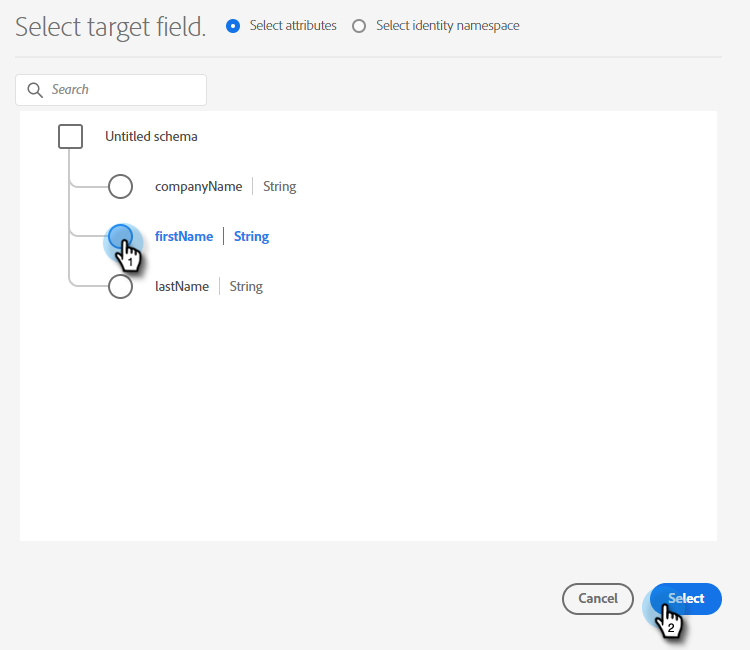
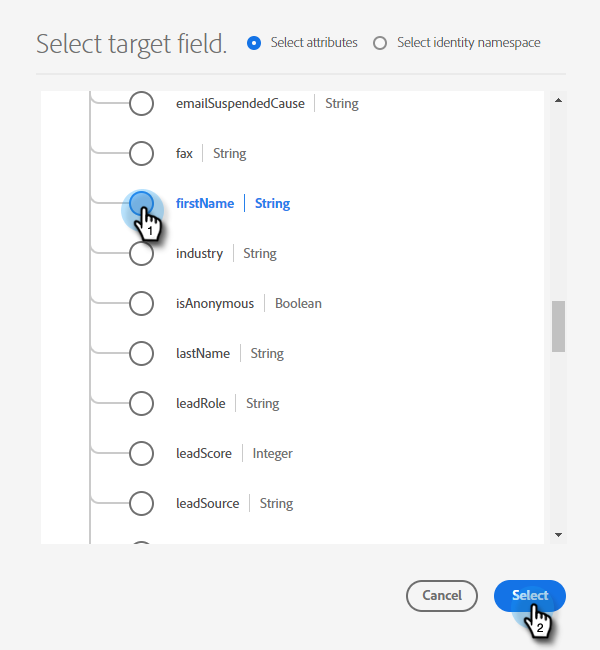
push exp plat

diff --git a/help/marketo/product-docs/core-marketo-concepts/smart-lists-and-static-lists/static-lists/push-an-adobe-experience-platform-segment-to-a-marketo-static-list.md b/help/marketo/product-docs/core-marketo-concepts/smart-lists-and-static-lists/static-lists/push-an-adobe-experience-platform-segment-to-a-marketo-static-list.md
@@ -51,7 +51,7 @@ This feature allows you to push segments located in your Adobe Experience Platfo
 
    ![](assets/push-an-adobe-experience-platform-segment-8.png)
 
-1. Enter a Destination **Name** and an optional Description. Click the Person Creation drop-down and choose "Match Existing Marketo People and Create Missing People in Marketo" _or_ "Match Existing Marketo People Only." In this example we're choosing the former.
+1. Enter a Destination **Name** and an optional Description. Click the Person Creation drop-down and choose "Match Existing Marketo People and Create Missing People in Marketo" _or_ "Match Existing Marketo People Only." In this example we're choosing the former. You can also optionally choose a workspace, or just go with the default.
 
    ![](assets/push-an-adobe-experience-platform-segment-9.png)
 
@@ -87,9 +87,13 @@ This feature allows you to push segments located in your Adobe Experience Platfo
 
    ![](assets/push-an-adobe-experience-platform-segment-14.png)
 
-1. Map First Name by selecting **firstName** and clicking **Select**.
+1. Choose your desired attribute(s) and click **Select**. In this example, we're choosing first name, last name, and email address.
 
    ![](assets/push-an-adobe-experience-platform-segment-15.png)
+
+   >[!NOTE]
+   >
+   >You can map attributes from Experience Platform to any of the attributes that your organization has access to in Marketo Engage. Use the [Describe API request](https://developers.marketo.com/rest-api/lead-database/leads/#describe){target="_blank"} to retrieve attribute fields that your organization has access to.
 
 1. Map the Last Name and Company Name by clicking **Add New Mapping** again and repeating Step 15 twice, choosing **lastName** and then **companyName**.
 
@@ -135,22 +139,6 @@ This feature allows you to push segments located in your Adobe Experience Platfo
 
    ![](assets/push-an-adobe-experience-platform-segment-25.png)
 
-1. You will now need your list's ID. Click the tab in your browser that has your Marketo static list open (or open a new tab and select your desired static list).
+1. Review your changes and click **Finish**.
 
    ![](assets/push-an-adobe-experience-platform-segment-26.png)
-
-   >[!NOTE]
-   >
-   >For best results, use an empty Marketo Engage list.
-
-1. Highlight and copy the list ID at the end of the URL.
-
-   ![](assets/push-an-adobe-experience-platform-segment-27.png)
-
-1. Paste the ID you just copied under Mapping ID and click **Next**.
-
-   ![](assets/push-an-adobe-experience-platform-segment-28.png)
-
-1. Click **Finish**.
-
-   ![](assets/push-an-adobe-experience-platform-segment-29.png)
